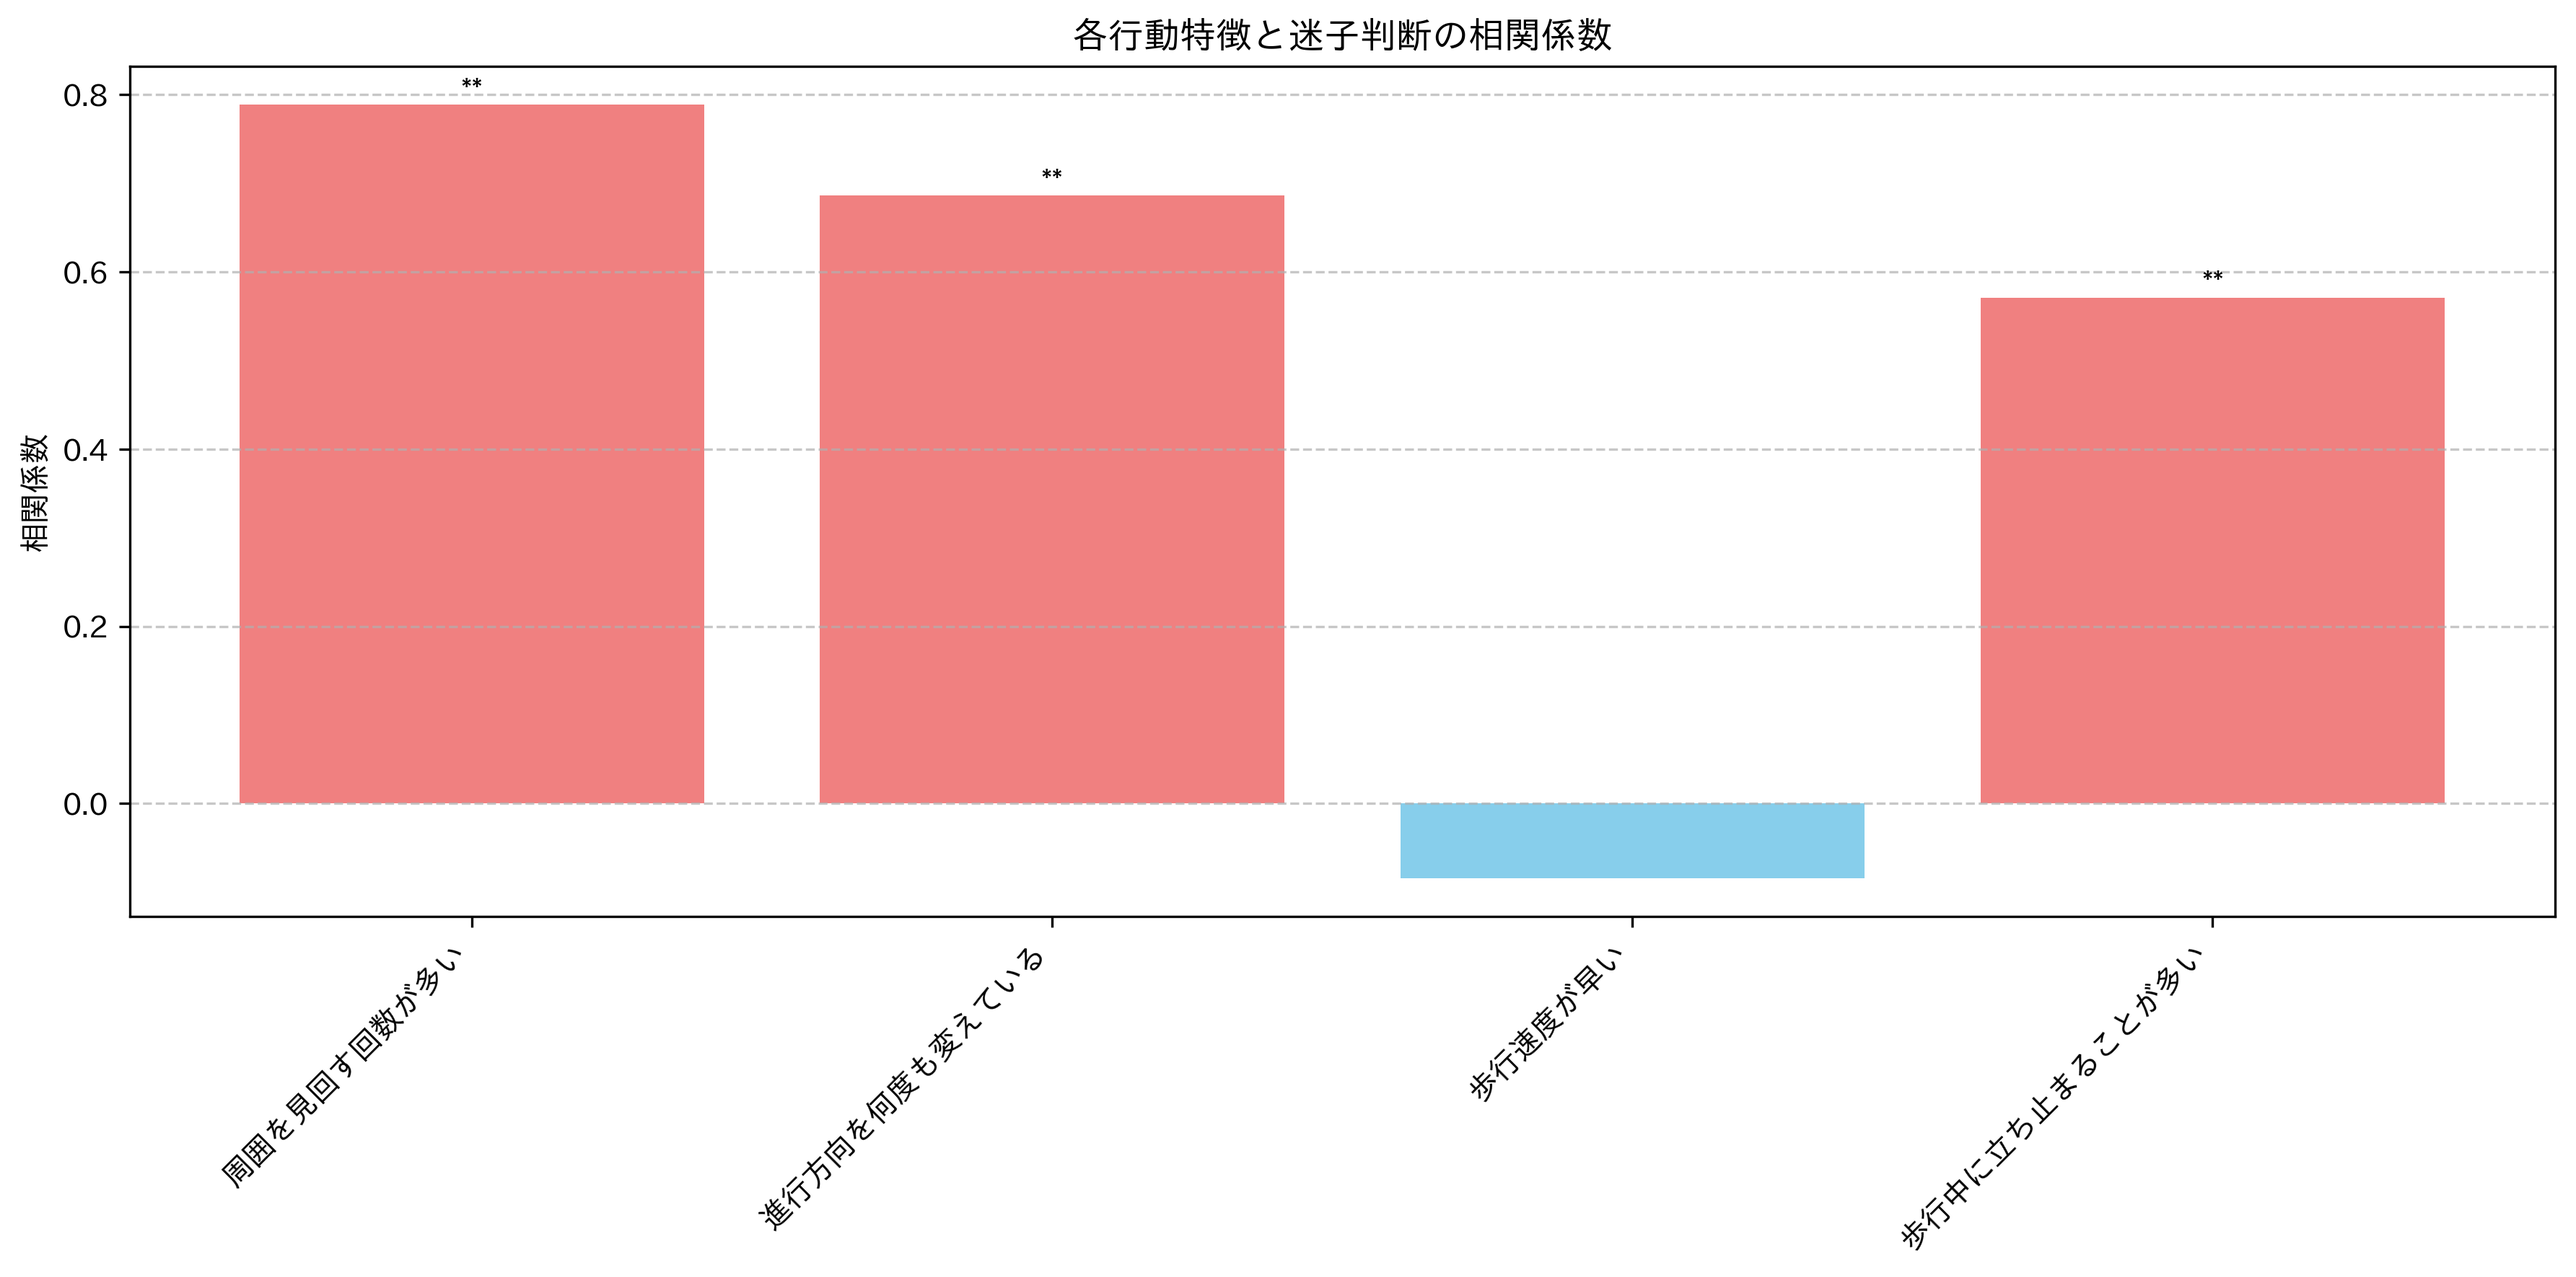
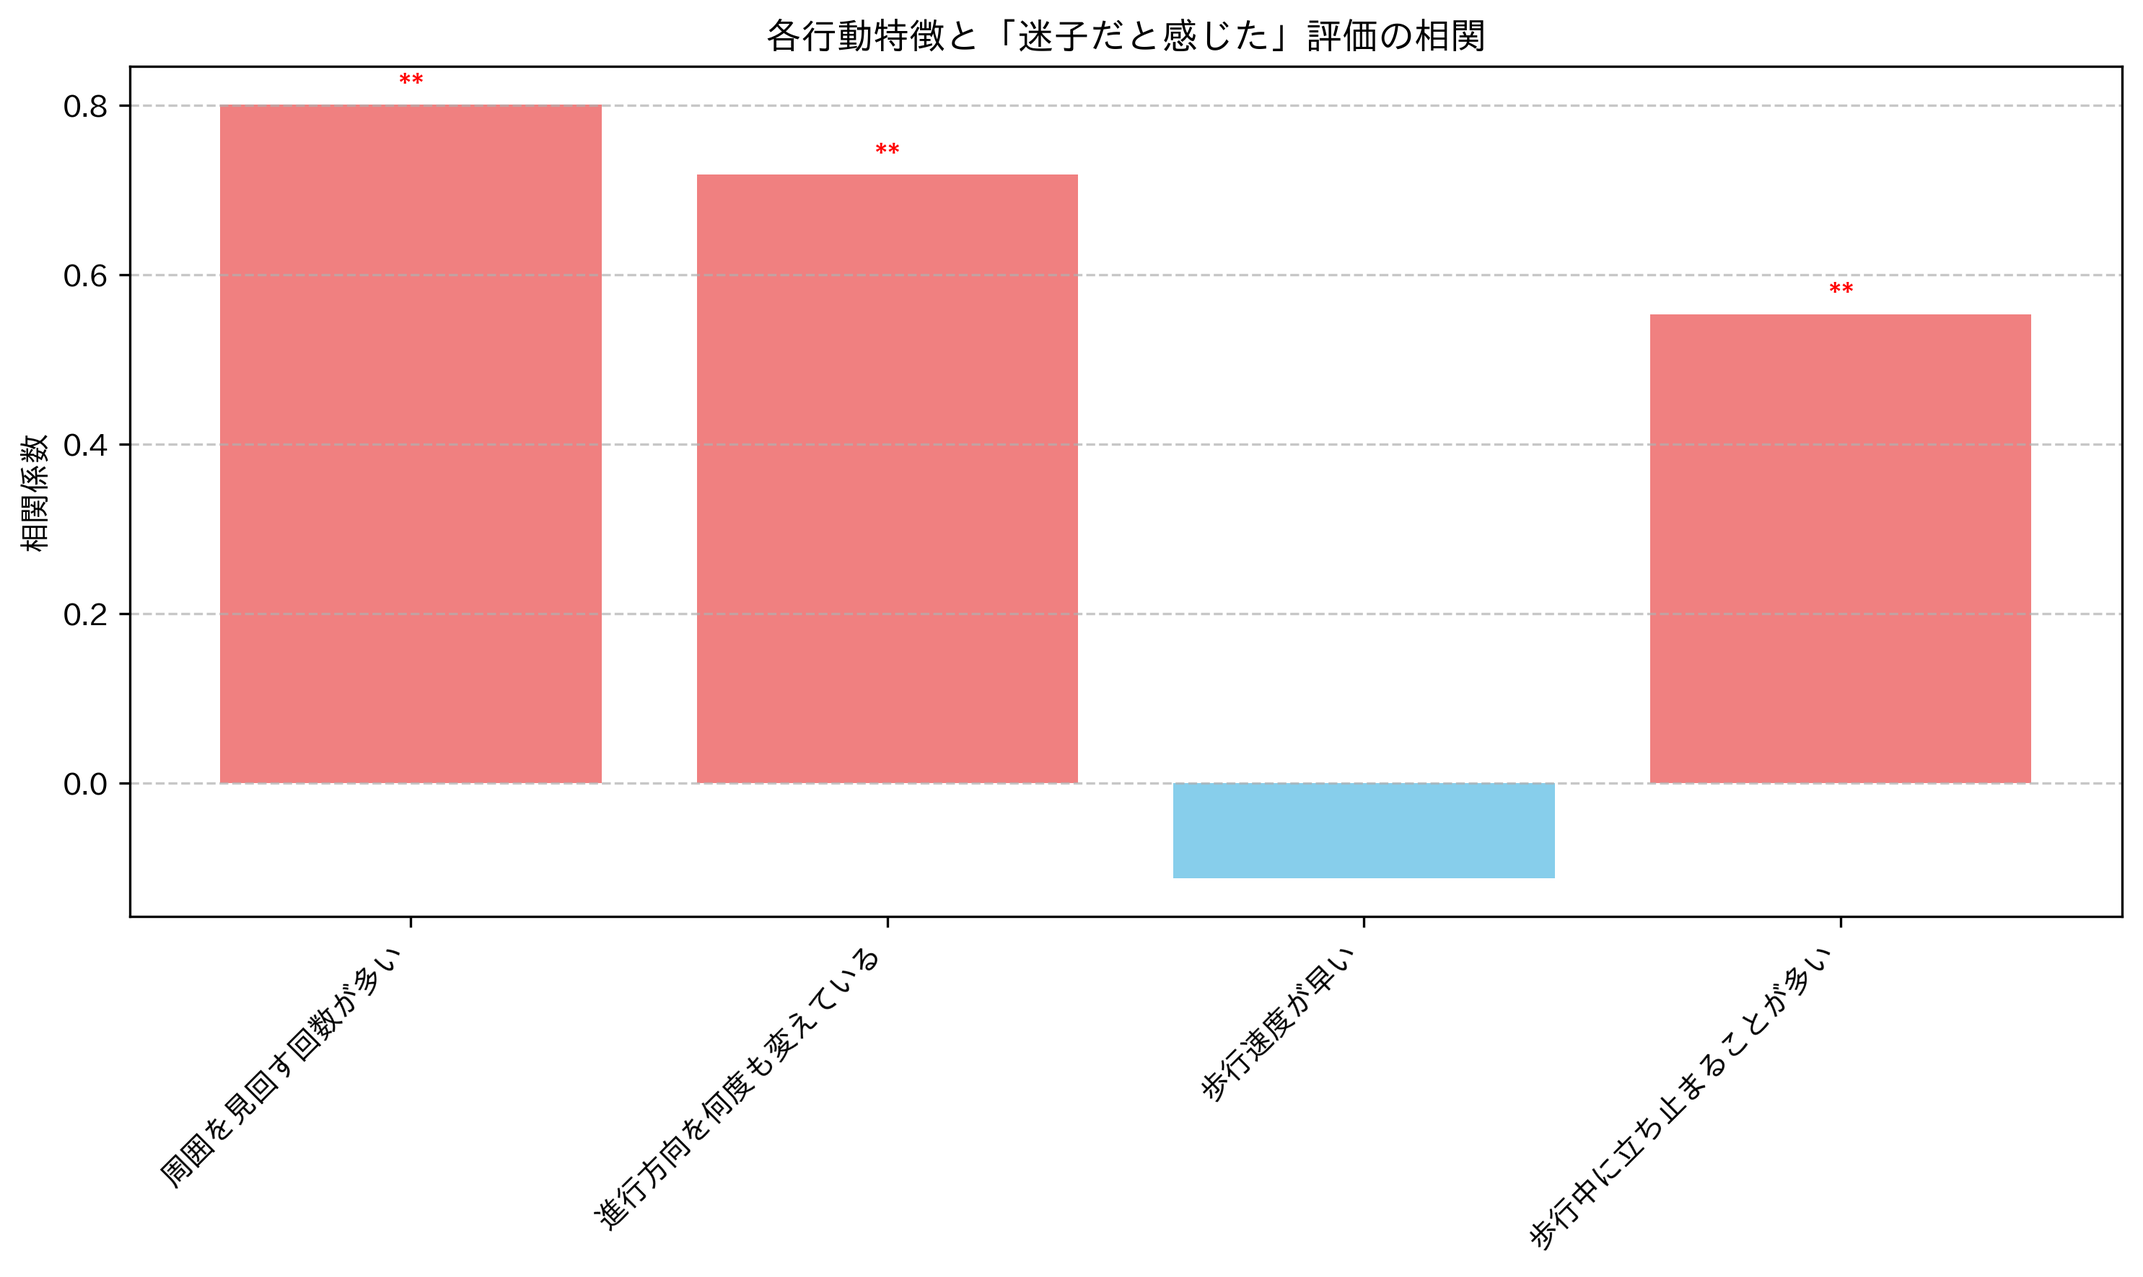
いろいろ修正

diff --git a/index.py b/index.py
@@ -4,124 +4,255 @@ from scipy import stats
 import matplotlib.pyplot as plt
 import japanize_matplotlib
 
+
+def label_significance(p_value):
+    """
+    p値に応じて有意差ラベルを返す:
+      - **  (p < 0.01)
+      - *   (p < 0.05)
+      - ''  (それ以外)
+    """
+    if p_value < 0.01:
+        return '**'
+    elif p_value < 0.05:
+        return '*'
+    else:
+        return ''
+
+
 def analyze_multiple_experiments():
-   dfs = []
-   for i in range(1, 9):
-       try:
-           df = pd.read_csv(f'./data/本実験{i}の解答フォーム.csv')
-           dfs.append(df)
-       except FileNotFoundError:
-           print(f"ファイル 本実験{i}の解答フォーム.csv が見つかりません")
-           continue
-   
-   if not dfs:
-       raise Exception("データファイルが読み込めませんでした")
-   
-   combined_df = pd.concat(dfs, ignore_index=True)
-   
-   behaviors = [
-       '周囲を見回す回数が多い',
-       '進行方向を何度も変えている',
-       '歩行速度が早い',
-       '歩行中に立ち止まることが多い'
-   ]
-   
-   results = pd.DataFrame(columns=['行動特徴', 'F値', 'p値', '相関係数'])
-   detailed_results = {}
-   
-   for behavior in behaviors:
-       behavior_cols = [col for col in combined_df.columns if behavior in col]
-       lost_cols = [col for col in combined_df.columns if '迷子になっていると感じた' in col]
-       
-       behavior_vals = combined_df[behavior_cols].values.flatten()
-       lost_vals = combined_df[lost_cols].values.flatten()
-       
-       correlation = stats.pearsonr(behavior_vals, lost_vals)
-       
-       median = np.median(behavior_vals)
-       high_group = lost_vals[behavior_vals >= median]
-       low_group = lost_vals[behavior_vals < median]
-       f_stat, p_val = stats.f_oneway(high_group, low_group)
-       
-       results.loc[len(results)] = [
-           behavior,
-           f_stat,
-           p_val,
-           correlation[0]
-       ]
-       
-       detailed_results[behavior] = {
-           'mean': np.mean(behavior_vals),
-           'std': np.std(behavior_vals),
-           'median': median,
-           'correlation': correlation[0],
-           'p_value': p_val,
-           'f_stat': f_stat
-       }
-   
-   return results, detailed_results
+    """
+    複数の実験CSVファイルを読み込み、行動特徴と『迷子に感じる度合い』との
+    ピアソン相関・分散分析を行う。
+    
+    Returns
+    -------
+    results : pd.DataFrame
+        行動特徴ごとのF値・p値・相関係数・相関p値をまとめたテーブル
+    detailed_results : dict
+        行動特徴ごとの詳細統計（平均・標準偏差・中央値・相関・相関p値・F値・p値 など）
+    """
+    dfs = []
+    for i in range(1, 9):
+        filepath = f'./data/本実験{i}の解答フォーム.csv'
+        try:
+            df = pd.read_csv(filepath)
+            dfs.append(df)
+        except FileNotFoundError:
+            print(f"ファイル {filepath} が見つかりません。スキップします。")
+    
+    if not dfs:
+        raise FileNotFoundError("いずれの実験CSVファイルも読み込めませんでした。")
+    
+    # 複数のDFを縦に結合
+    combined_df = pd.concat(dfs, ignore_index=True)
+    
+    # 行動特徴のキーワード
+    behaviors = [
+        '周囲を見回す回数が多い',
+        '進行方向を何度も変えている',
+        '歩行速度が早い',
+        '歩行中に立ち止まることが多い'
+    ]
+    
+    # 結果を格納するDataFrameと詳細統計用のdict
+    results = pd.DataFrame(columns=['行動特徴', 'F値', 'p値', '相関係数', '相関p値', '有意差(ANOVA)', '有意差(相関)'])
+    detailed_results = {}
+    
+    # 「迷子だと感じた」の列を先に全取得（複数ある想定）
+    lost_cols = [col for col in combined_df.columns if '迷子になっていると感じた' in col]
+    if not lost_cols:
+        raise ValueError("データに『迷子になっていると感じた』列が見つかりません。列名を確認してください。")
+    
+    # 迷子評価データを一つにまとめて1次元に（行列→一次元ベクトル）
+    # flattenする前にNaN除去のためにmaskで揃える方法もあるが、
+    # 今回はあとでmask処理を行うのでまずはnumpy配列化しておく
+    lost_vals_raw = combined_df[lost_cols].values.flatten()
+
+    for behavior in behaviors:
+        # 行動特徴にマッチする列を抽出
+        behavior_cols = [col for col in combined_df.columns if behavior in col]
+        if not behavior_cols:
+            print(f"『{behavior}』に該当する列が見つかりません。スキップします。")
+            continue
+        
+        # 該当列をまとめて一次元に
+        behavior_vals_raw = combined_df[behavior_cols].values.flatten()
+        
+        # --- 欠損値のマスクを作成 ---
+        mask = (~np.isnan(behavior_vals_raw)) & (~np.isnan(lost_vals_raw))
+        behavior_vals = behavior_vals_raw[mask]
+        lost_vals = lost_vals_raw[mask]
+        
+        if len(behavior_vals) == 0:
+            print(f"『{behavior}』は有効なデータがありません。")
+            continue
+        
+        # ピアソン相関（相関係数＆相関p値）
+        corr_coeff, corr_pval = stats.pearsonr(behavior_vals, lost_vals)
+        
+        # 行動特徴の中央値で二分割 → High group / Low group
+        median_val = np.median(behavior_vals)
+        high_group = lost_vals[behavior_vals >= median_val]
+        low_group = lost_vals[behavior_vals < median_val]
+        
+        # 一元分散分析(f_oneway)で高群と低群の差を検定
+        f_stat, p_val_anova = stats.f_oneway(high_group, low_group)
+        
+        # 結果テーブルへ行追加
+        results.loc[len(results)] = [
+            behavior,
+            f_stat,
+            p_val_anova,
+            corr_coeff,
+            corr_pval,
+            label_significance(p_val_anova),
+            label_significance(corr_pval)
+        ]
+        
+        # 詳細情報
+        detailed_results[behavior] = {
+            'mean': np.mean(behavior_vals),
+            'std': np.std(behavior_vals),
+            'median': median_val,
+            'correlation': corr_coeff,
+            'correlation_pval': corr_pval,
+            'f_stat': f_stat,
+            'p_value_anova': p_val_anova
+        }
+    
+    return results, detailed_results
+
 
 def display_results(results):
-   print("\n迷子行動の分析結果:")
-   print("=" * 70)
-   print(f"{'行動特徴':^30} {'F値':^12} {'p値':^12} {'相関係数':^12}")
-   print("-" * 70)
-   
-   for _, row in results.iterrows():
-       behavior = row['行動特徴']
-       f_val = f"{row['F値']:.3f}".rjust(12)
-       p_val = f"{row['p値']:.3f}".rjust(12)
-       corr = f"{row['相関係数']:.3f}".rjust(12)
-       print(f"{behavior:<30} {f_val} {p_val} {corr}")
-   
-   print("=" * 70)
-   print("\n* p < 0.05, ** p < 0.01")
+    """
+    「行動特徴」「F値」「p値」「相関係数」「相関p値」などを整形して表示。
+    """
+    print("\n迷子行動の分析結果:")
+    print("=" * 90)
+    header = f"{'行動特徴':<28} {'F値':>8} {'p値(ANOVA)':>12} {'相関係数':>10} {'相関p値':>10} {'有意差(ANOVA)':>12} {'有意差(相関)':>12}"
+    print(header)
+    print("-" * 90)
+    
+    for _, row in results.iterrows():
+        behavior = row['行動特徴']
+        f_val = f"{row['F値']:.2f}"
+        p_val_anova = f"{row['p値']:.3g}"
+        corr = f"{row['相関係数']:.2f}"
+        corr_p = f"{row['相関p値']:.3g}"
+        sig_anova = row['有意差(ANOVA)']
+        sig_corr = row['有意差(相関)']
+        
+        print(f"{behavior:<30} "
+              f"{f_val:>6} "
+              f"{p_val_anova:>12} "
+              f"{corr:>10} "
+              f"{corr_p:>10} "
+              f"{sig_anova:>12} "
+              f"{sig_corr:>12}")
+    
+    print("=" * 90)
+    print("\n有意差ラベル: * (p<0.05), ** (p<0.01), '' (n.s.)")
+
 
 def plot_correlation(results):
-   plt.figure(figsize=(12, 6))
-   colors = ['skyblue' if p >= 0.05 else 'lightgreen' if p >= 0.01 else 'lightcoral' 
-             for p in results['p値']]
-   
-   bars = plt.bar(results['行動特徴'], results['相関係数'], color=colors)
-   plt.xticks(rotation=45, ha='right')
-   plt.title('各行動特徴と迷子判断の相関係数')
-   plt.ylabel('相関係数')
-   
-   for i, p in enumerate(results['p値']):
-       if p < 0.01:
-           plt.text(i, results['相関係数'][i], '**', ha='center', va='bottom')
-       elif p < 0.05:
-           plt.text(i, results['相関係数'][i], '*', ha='center', va='bottom')
-   
-   plt.tight_layout()
-   plt.grid(True, axis='y', linestyle='--', alpha=0.7)
-   plt.savefig('correlation_plot.png', dpi=300, bbox_inches='tight')
-   plt.close()
+    """
+    行動特徴ごとの「相関係数」を棒グラフで可視化し、p値に応じたアスタリスクを付加する。
+    """
+    plt.figure(figsize=(10, 6))
+    
+    # p値に応じて色を変えるサンプル（ANOVAではなく相関p値にしてもOK）
+    colors = []
+    for p in results['p値']:
+        if p < 0.01:
+            colors.append('lightcoral')  # p<0.01
+        elif p < 0.05:
+            colors.append('lightgreen')  # p<0.05
+        else:
+            colors.append('skyblue')     # p>=0.05
+    
+    # ただし、上記コードでは results['p値'] が無いとエラーになるので
+    # ここは注意：本コードでは ANOVA のp値は 'p値' でなく 'p値(ANOVA)' 列名にするなど要調整
+    # あるいは下記のように「相関のp値」で色を変える場合:
+    # for p in results['相関p値']:
+
+    # ここでは相関のp値で色を変える例として書き換えます:
+    color_list = []
+    for p in results['相関p値']:
+        if p < 0.01:
+            color_list.append('lightcoral')
+        elif p < 0.05:
+            color_list.append('lightgreen')
+        else:
+            color_list.append('skyblue')
+    
+    plt.bar(results['行動特徴'], results['相関係数'], color=color_list)
+    plt.xticks(rotation=45, ha='right')
+    plt.title('各行動特徴と「迷子だと感じた」評価の相関')
+    plt.ylabel('相関係数')
+    
+    # 棒の上に有意差マークを追加（相関のp値ベースで）
+    for i, (r, p) in enumerate(zip(results['相関係数'], results['相関p値'])):
+        label = label_significance(p)
+        if label:
+            plt.text(i, r, label, ha='center', va='bottom', fontsize=12, color='red')
+    
+    plt.tight_layout()
+    plt.grid(True, axis='y', linestyle='--', alpha=0.7)
+    plt.savefig('correlation_plot.png', dpi=300, bbox_inches='tight')
+    plt.close()
+
 
 def display_detailed_results(detailed_results):
-   print("\n詳細な統計結果:")
-   print("=" * 100)
-   print(f"{'行動特徴':^30} {'平均':^12} {'標準偏差':^12} {'中央値':^12} {'相関係数':^12} {'p値':^12}")
-   print("-" * 100)
-   
-   for behavior, stats_dict in detailed_results.items():
-       print(f"{behavior:<30} "
-             f"{stats_dict['mean']:>12.3f} "
-             f"{stats_dict['std']:>12.3f} "
-             f"{stats_dict['median']:>12.3f} "
-             f"{stats_dict['correlation']:>12.3f} "
-             f"{stats_dict['p_value']:>12.3f}")
-   print("=" * 100)
+    """
+    平均・標準偏差・中央値・相関係数などを行動特徴ごとに詳細表示。
+    """
+    print("\n詳細な統計結果:")
+    print("=" * 110)
+    header = (
+        f"{'行動特徴':<30}"
+        f"{'平均':>10}"
+        f"{'標準偏差':>10}"
+        f"{'中央値':>10}"
+        f"{'相関係数':>10}"
+        f"{'相関p値':>10}"
+        f"{'F値(ANOVA)':>12}"
+        f"{'p値(ANOVA)':>12}"
+    )
+    print(header)
+    print("-" * 110)
+    
+    for behavior, stats_dict in detailed_results.items():
+        print(f"{behavior:<30}"
+              f"{stats_dict['mean']:>10.2f}"
+              f"{stats_dict['std']:>10.2f}"
+              f"{stats_dict['median']:>10.2f}"
+              f"{stats_dict['correlation']:>10.2f}"
+              f"{stats_dict['correlation_pval']:>10.3g}"
+              f"{stats_dict['f_stat']:>12.2f}"
+              f"{stats_dict['p_value_anova']:>12.3g}")
+    
+    print("=" * 110)
+
 
 def main():
-   try:
-       results, detailed_results = analyze_multiple_experiments()
-       display_results(results)
-       display_detailed_results(detailed_results)
-       plot_correlation(results)
-       print("\n分析が完了しました。グラフは'correlation_plot.png'として保存されました。")
-   except Exception as e:
-       print(f"エラーが発生しました: {e}")
+    """
+    メイン処理:
+      1. データの集計・解析 (analyze_multiple_experiments)
+      2. 結果の表示 (display_results, display_detailed_results)
+      3. 相関のプロット (plot_correlation)
+    """
+    try:
+        results, detailed_results = analyze_multiple_experiments()
+        display_results(results)
+        display_detailed_results(detailed_results)
+        
+        # 棒グラフの描画・保存（相関係数）
+        plot_correlation(results)
+        print("\n分析が完了しました。グラフは 'correlation_plot.png' として保存されました。")
+    except Exception as e:
+        print(f"エラーが発生しました: {e}")
+
 
 if __name__ == "__main__":
-   main()
+    main()

diff --git a/report.md b/report.md
@@ -1,0 +1,25 @@
+(venv) kinjyoshotaro@kinjoushoutarounoMacBook-Pro-2 analyze % python index.py
+
+迷子行動の分析結果:
+==========================================================================================
+行動特徴                               F値    p値(ANOVA)       相関係数       相関p値   有意差(ANOVA)      有意差(相関)
+------------------------------------------------------------------------------------------
+周囲を見回す回数が多い                    137.56      7.4e-25       0.80   1.66e-49           **           **
+進行方向を何度も変えている                  123.57      5.9e-23       0.72   1.53e-35           **           **
+歩行速度が早い                          3.23       0.0736      -0.11     0.0999                          
+歩行中に立ち止まることが多い                  51.10     1.37e-11       0.55    9.5e-19           **           **
+==========================================================================================
+
+有意差ラベル: * (p<0.05), ** (p<0.01), '' (n.s.)
+
+詳細な統計結果:
+==============================================================================================================
+行動特徴                                  平均      標準偏差       中央値      相関係数      相関p値   F値(ANOVA)   p値(ANOVA)
+--------------------------------------------------------------------------------------------------------------
+周囲を見回す回数が多い                        60.22     26.88     66.50      0.80  1.66e-49      137.56     7.4e-25
+進行方向を何度も変えている                      61.79     25.93     68.00      0.72  1.53e-35      123.57     5.9e-23
+歩行速度が早い                            51.75     22.98     50.00     -0.11    0.0999        3.23      0.0736
+歩行中に立ち止まることが多い                     55.44     27.97     61.00      0.55   9.5e-19       51.10    1.37e-11
+==============================================================================================================
+
+分析が完了しました。グラフは 'correlation_plot.png' として保存されました。
